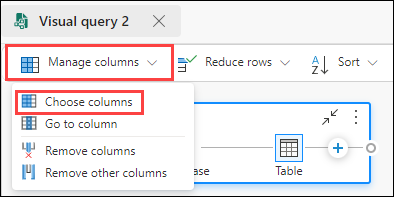
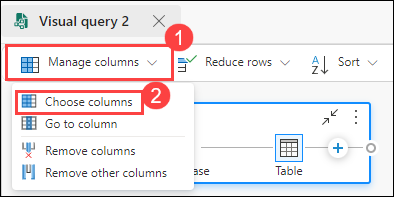
Updates Lab 2

Changed region(s): [[0.3655, 0.3959, 0.4569, 0.5787], [0.3959, 0.1218, 0.5178, 0.2741]]

diff --git a/Instructions/Labs/01-Data-Engineering.md b/Instructions/Labs/01-Data-Engineering.md
@@ -239,9 +239,9 @@ When you create a lakehouse and define tables in it, an SQL endpoint is automati
 
     ![Screenshot of the SQL endpoint page.](./Images/sql_31-1.png)
 
-3. From the **New SQL Query (1)** drop-down select the **New SQL query (2)** button to open a new query editor, and enter the following SQL query:
+3. Use the **New SQL query** button to open a new query editor, and enter the following SQL query:
 
-   ![](./Images/Lake7.png)
+   ![Screenshot of a new sql query.](./Images/f-06.png)
    
     ```SQL
    SELECT Item, SUM(Quantity * UnitPrice) AS Revenue
@@ -258,13 +258,15 @@ When you create a lakehouse and define tables in it, an SQL endpoint is automati
 
 While many data professionals are familiar with SQL, data analysts with Power BI experience can apply their Power Query skills to create visual queries.
 
-1. On the toolbar, select **New visual query**.
+1. On the toolbar, select **New visual query (2)** from the **New SQL Query (1)** dropdown.
+
+    ![.](./Images/Lake7.png)
 
 2. Drag the **sales** table to the new visual query editor pane that opens to create a Power Query as shown here: 
 
     ![Screenshot of a Visual query.](./Images/visual-query1.png)
 
-3. In the **Manage columns** menu, select **Choose columns**. Then select only the **SalesOrderNumber** and **SalesOrderLineNumber** columns and click on **OK**.
+3. In the **Manage columns (1)** menu, select **Choose columns (2)**. Then select only the **SalesOrderNumber** and **SalesOrderLineNumber** columns and click on **OK**.
 
     ![Screenshot of a Choose columns dialog box.](./Images/f-7.png)
     ![Screenshot of a Choose columns dialog box.](./Images/choose-columns1.png)
@@ -273,14 +275,14 @@ While many data professionals are familiar with SQL, data analysts with Power BI
 
     ![Screenshot of a Visual query with results.](./Images/01/Pg3-VisQuery-S4.0.png)
 
-5. Then group the data by using the following **Basic** settings and click on **OK**:
+5. Then group the data by using the following **Basic** settings and click on **OK (5)**:
 
-    - **Group by**: SalesOrderNumber
-    - **New column name**: LineItems
-    - **Operation**: Count distinct values
-    - **Column**: SalesOrderLineNumber
+    - **Group by (1)**: SalesOrderNumber
+    - **New column name (2)**: LineItems
+    - **Operation (3)**: Count distinct values
+    - **Column (4)**: SalesOrderLineNumber
 
-      ![Screenshot of a Visual query with results.](./Images/01/Pg3-VisQuery-S4.01.png)
+      ![Screenshot of a Visual query with results.](./Images/Pg3-VisQuery-S4.01.png)
 
 6. When you're done, the results pane under the visual query shows the number of line items for each sales order.
 
@@ -290,7 +292,7 @@ While many data professionals are familiar with SQL, data analysts with Power BI
 
 The tables in your lakehouse are automatically added to a default dataset that defines a data model for reporting with Power BI.
 
-1. At the top of the SQL Endpoint page, select the **Model** tab. The data model schema for the dataset is shown.
+1. At the top of the SQL Endpoint page, select the **Model Layouts** tab. The data model schema for the dataset is shown.
 
     ![Screenshot of a data model.](./Images/u8.png)
 
@@ -309,8 +311,8 @@ The tables in your lakehouse are automatically added to a default dataset that d
     ![](./Images/u9.png)
    
 3. In the **Data** pane on the right, expand the **sales** table. Then select the following fields:
-    - **Item**
-    - **Sum of Quantity**
+    - **Item (1)**
+    - **Quantity (1)**
 
     A table visualization is added to the report:
 
@@ -320,8 +322,8 @@ The tables in your lakehouse are automatically added to a default dataset that d
 
     ![Screenshot of a report containing a clustered bar chart.](./Images/clustered-bar-chart11.png)
 
-5. On the **File** menu, select **Save**. Then save the report as **Item Sales Report** in the workspace you created previously.
-6. Close the browser tab containing the report to return to the SQL endpoint for your lakehouse. Then, in the hub menu bar on the left, select your workspace to verify that it contains the following items:
+5. On the **File (1)** menu, select **Save (2)**. Then name the report as **Item Sales Report (3)** in the workspace you created previously, and then click **Save (4)**
+6. In the hub menu bar on the left, select your workspace to verify that it contains the following items:
     - Your lakehouse.
     - The SQL endpoint for your lakehouse.
     - A default dataset for the tables in your lakehouse.
